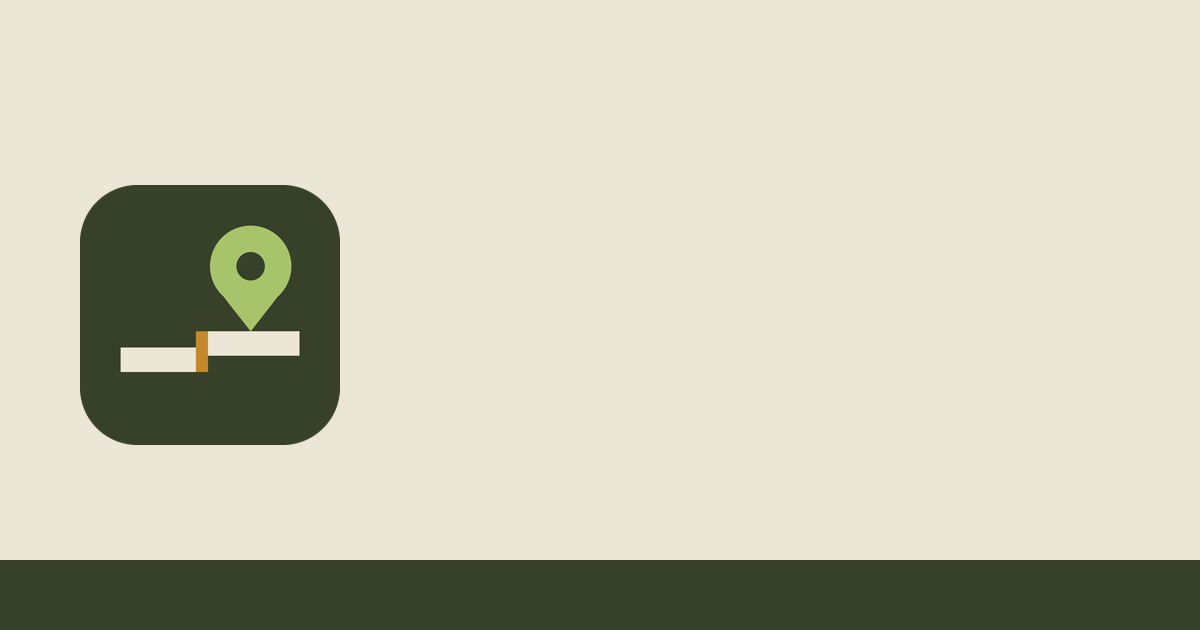
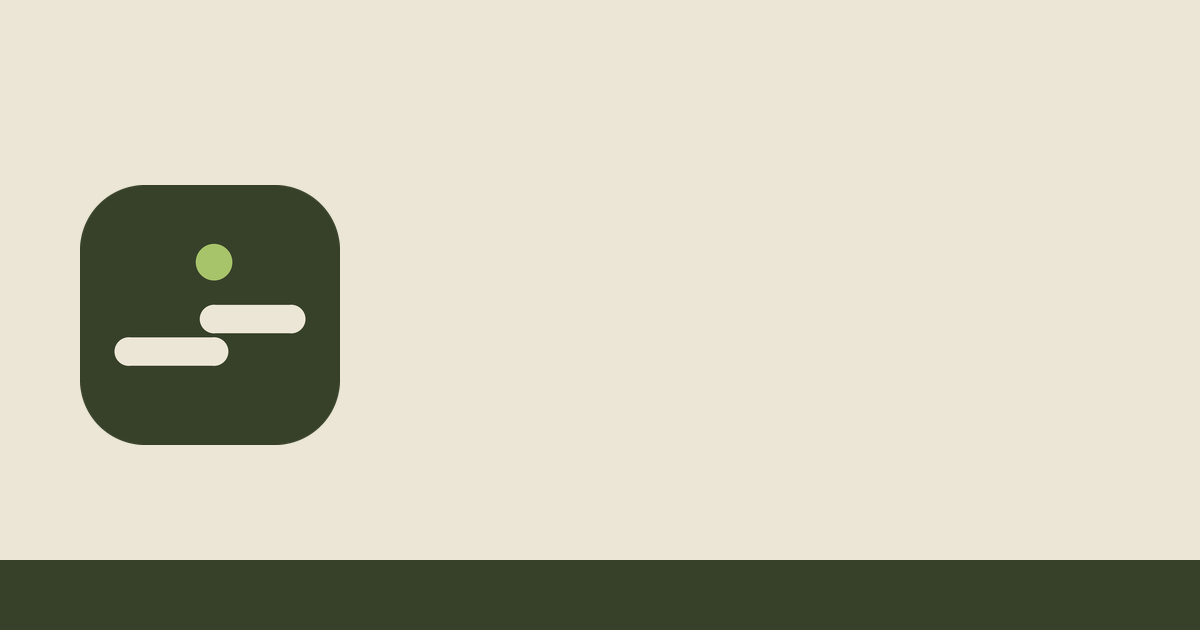
Brand mark: two panels, one lifted, a point above the lip

diff --git a/src/components/Icons.tsx b/src/components/Icons.tsx
@@ -13,11 +13,10 @@ const base = {
 
 export const Mark = (p: P) => (
   <svg viewBox="0 0 64 64" aria-hidden {...p}>
-    <rect width="64" height="64" rx="14" fill="currentColor" opacity="0.12" />
-    <path d="M10 40h20v6H10zM30 36h24v6H30z" fill="currentColor" />
-    <path d="M30 36v10" stroke="#c28a2d" strokeWidth="3" strokeLinecap="round" />
-    <path d="M42 10c-6 0-10 4.5-10 10 0 7 10 16 10 16s10-9 10-16c0-5.5-4-10-10-10z" fill="currentColor" />
-    <circle cx="42" cy="20" r="3.5" fill="var(--field, #ece6d6)" />
+    <rect width="64" height="64" rx="16" fill="currentColor" opacity="0.14" />
+    <line x1="12" y1="41" x2="33" y2="41" stroke="currentColor" strokeWidth="7" strokeLinecap="round" />
+    <line x1="33" y1="33" x2="52" y2="33" stroke="currentColor" strokeWidth="7" strokeLinecap="round" />
+    <circle cx="33" cy="19" r="4.5" fill="#a8c46a" />
   </svg>
 );
 

diff --git a/src/styles/global.css b/src/styles/global.css
@@ -624,8 +624,9 @@ ol {
   letter-spacing: -0.01em;
 }
 .brand svg {
-  width: 1.6rem;
-  height: 1.6rem;
+  width: 2rem;
+  height: 2rem;
+  border-radius: 8px;
 }
 .brand em {
   font-style: italic;

diff --git a/scripts/make_icons.py b/scripts/make_icons.py
@@ -10,7 +10,7 @@ OCHRE = (194, 138, 45)
 OLIVE_LIGHT = (168, 196, 106)
 
 
-def mark(size: int, padding: float = 0.0, radius: float = 0.22) -> Image.Image:
+def mark(size: int, padding: float = 0.0, radius: float = 0.25) -> Image.Image:
     """Draw the 64-unit mark scaled to `size` px. padding is a fraction for maskable icons."""
     s = 8  # supersample
     W = size * s
@@ -25,15 +25,19 @@ def mark(size: int, padding: float = 0.0, radius: float = 0.22) -> Image.Image:
     def P(x, y):
         return (off + x * u, off + y * u)
 
-    # left panel (flat), right panel (lifted)
-    d.polygon([P(10, 40), P(30, 40), P(30, 46), P(10, 46)], fill=FIELD)
-    d.polygon([P(30, 36), P(54, 36), P(54, 42), P(30, 42)], fill=FIELD)
-    d.line([P(30, 36), P(30, 46)], fill=OCHRE, width=int(3 * u))
-    # pin
-    cx, cy, r = 42, 20, 10
-    d.ellipse([P(cx - r, cy - r), P(cx + r, cy + r)], fill=OLIVE_LIGHT)
-    d.polygon([P(cx - 8.6, cy + 5), P(cx + 8.6, cy + 5), P(cx, cy + 16)], fill=OLIVE_LIGHT)
-    d.ellipse([P(cx - 3.5, cy - 3.5), P(cx + 3.5, cy + 3.5)], fill=OLIVE_DEEP)
+    # two panels, right one lifted, drawn as round-capped bars
+    def bar(x1, y, x2, w):
+        d.line([P(x1, y), P(x2, y)], fill=FIELD, width=int(w * u))
+        r = w * u / 2
+        for cx in (x1, x2):
+            px, py = P(cx, y)
+            d.ellipse([px - r, py - r, px + r, py + r], fill=FIELD)
+
+    bar(12, 41, 33, 7)
+    bar(33, 33, 52, 7)
+    px, py = P(33, 19)
+    r = 4.5 * u
+    d.ellipse([px - r, py - r, px + r, py + r], fill=OLIVE_LIGHT)
     return img.resize((size, size), Image.LANCZOS)
 
 
